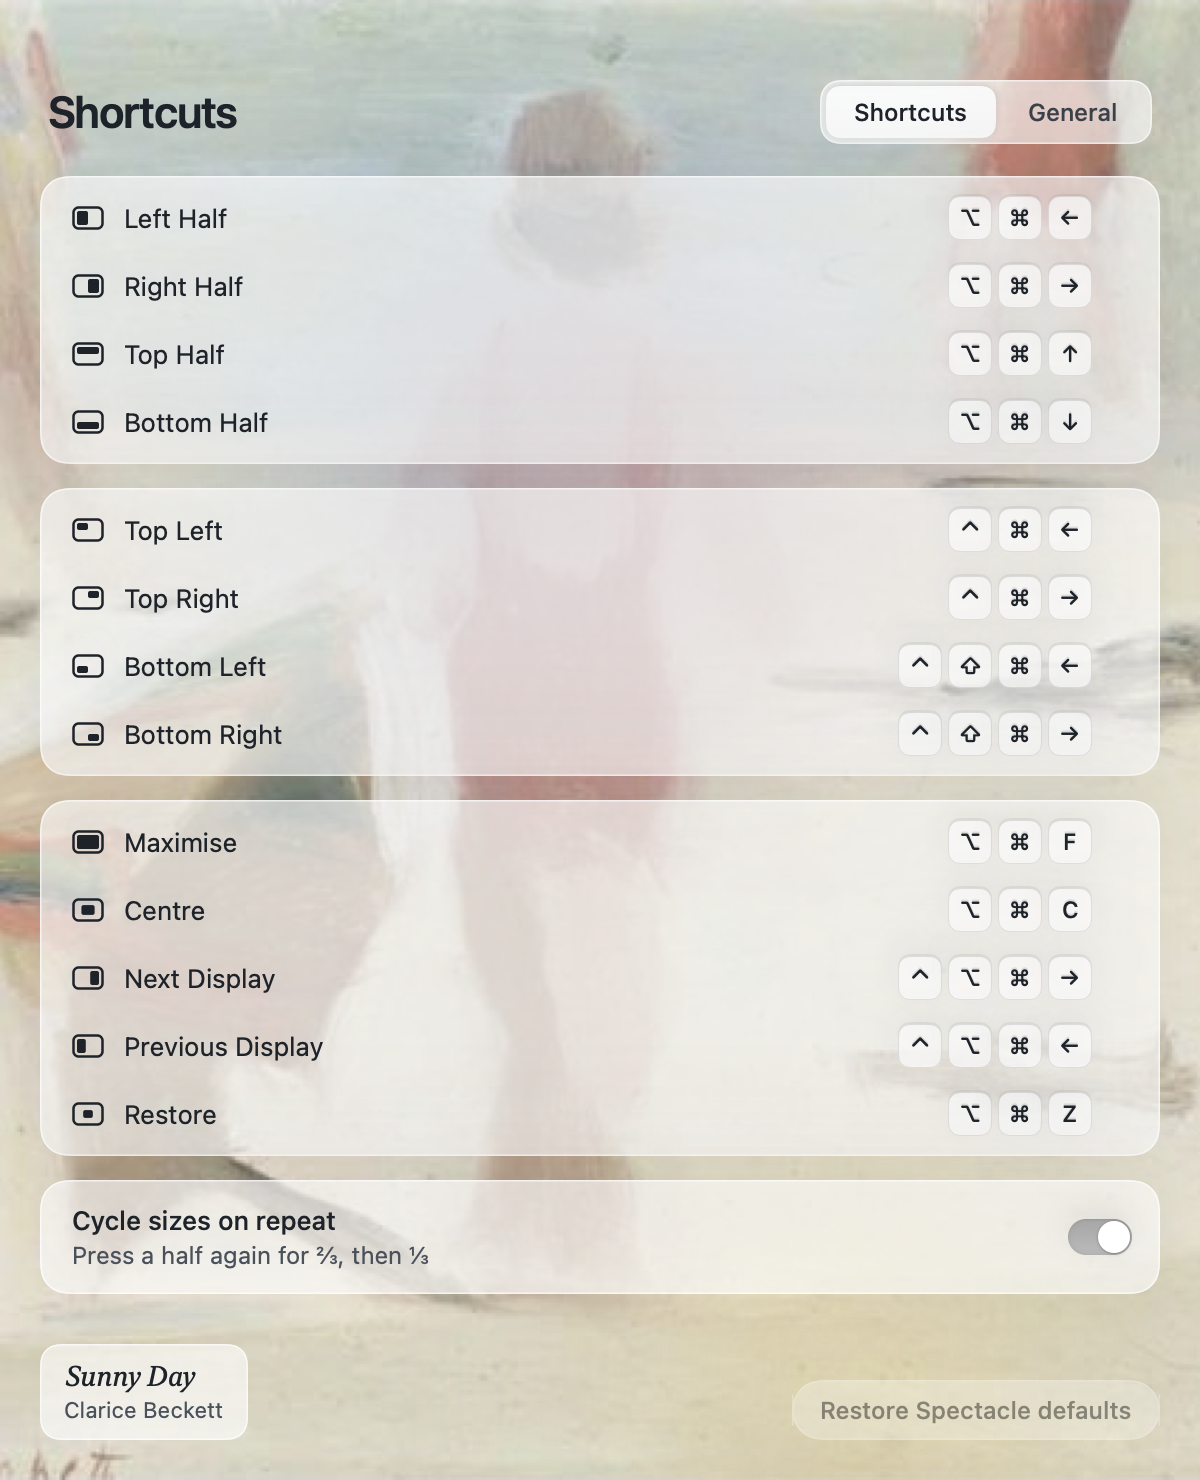
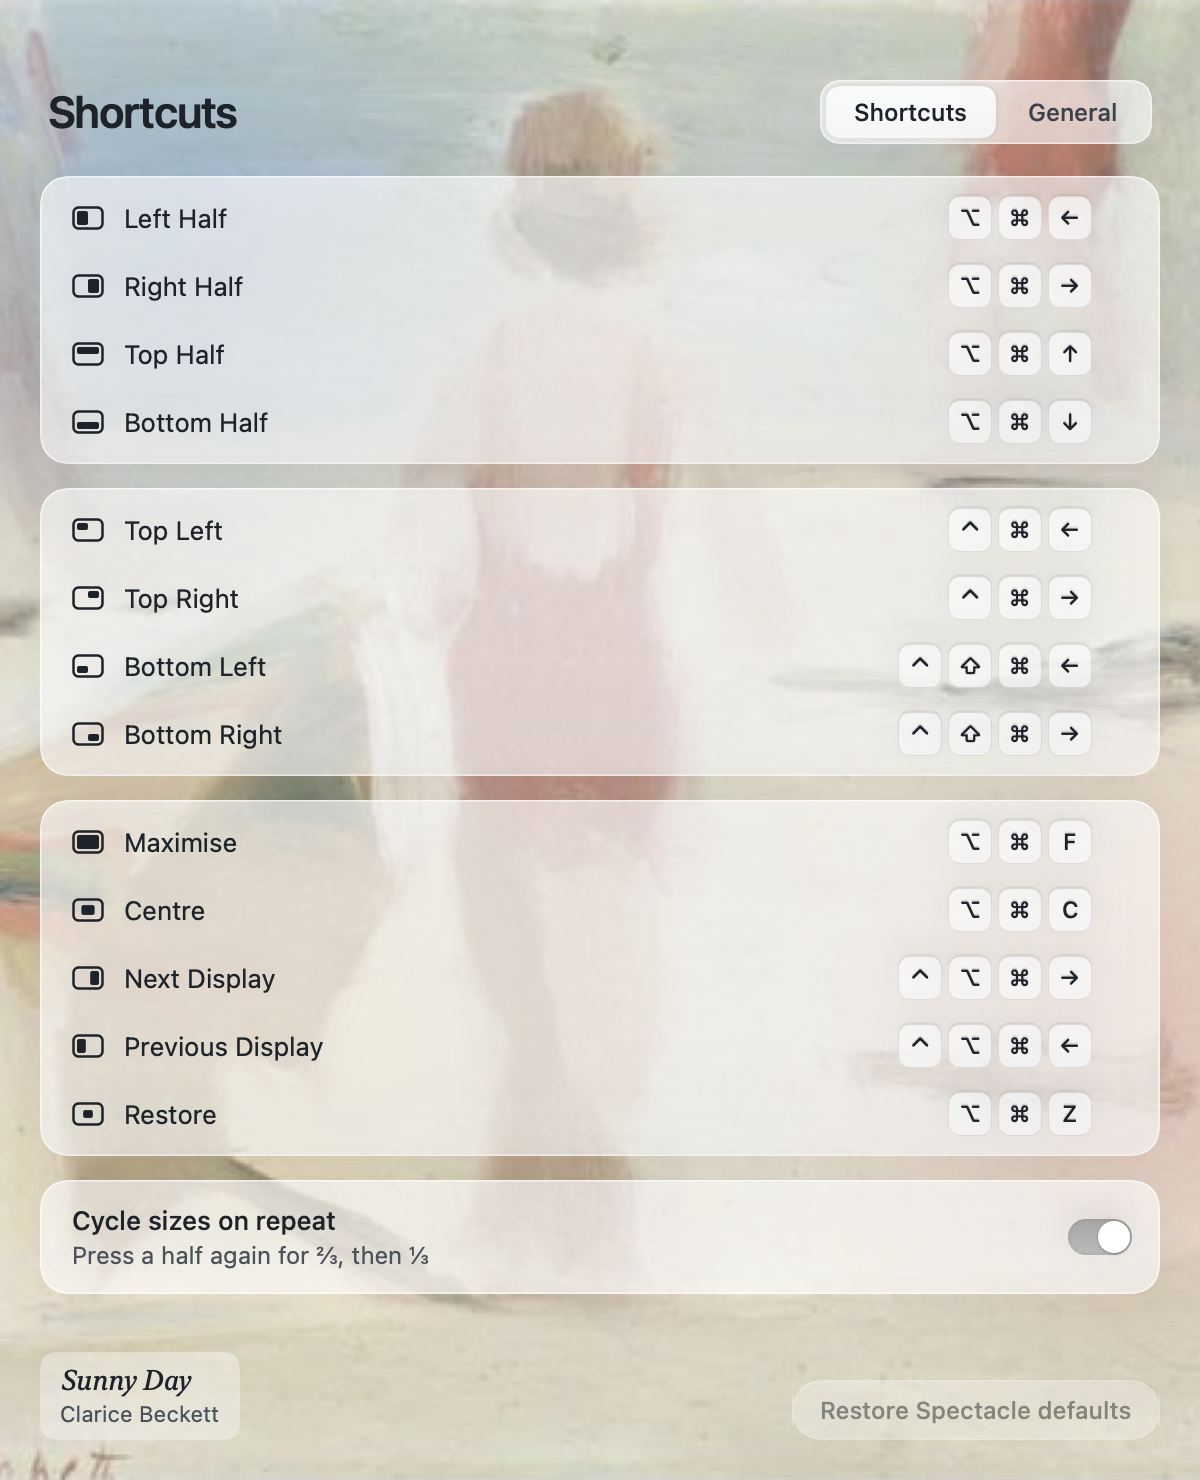
Wall label reads as a caption, not a control
Faint backing (white 0.22 light, slate 0.3 dark) with a light blur, no edge
or shadow, smaller padding. Library matches.

Changed region(s): [[0.0308, 0.9014, 0.2158, 0.9635], [0.0, 0.0622, 0.185, 0.1865], [0.555, 0.3108, 0.5858, 0.3419]]

diff --git a/library/pieces.css b/library/pieces.css
@@ -29,6 +29,7 @@
   --shadow-rgb: 29, 35, 43;
   --shadow-a: 1;
   /* Elevation. Light: white hairline, two soft ink shadows. */
+  --label-bg: rgba(255, 255, 255, 0.22);
   --glass-lift: inset 0 0 0 0.5px rgba(255, 255, 255, 0.65), 0 6px 16px rgba(29, 35, 43, 0.07), 0 24px 56px rgba(29, 35, 43, 0.08);
   /* The painting */
   --wash-rgb: 255, 255, 255;
@@ -68,6 +69,7 @@
   --knob-on: #ffffff;
   --switch-on: rgb(122, 138, 160);   /* slate, so the system's white knob shows */
   --glass-rgb: 14, 17, 22;
+  --label-bg: rgba(14, 17, 22, 0.3);
   --glass-extra: 0.36;       /* 0.32 + 0.36 = Theme.glass dark (0.68) */
   --glass-edge: rgba(255, 255, 255, 0.1);
   --key: rgba(255, 255, 255, 0.1);
@@ -164,7 +166,8 @@
 .sp-tile { background: var(--key-lg); border-radius: 12px; }
 
 /* ---------- Wall label ---------- */
-.sp-wall { display: inline-flex; flex-direction: column; gap: 1px; padding: 8px 12px; }
+/* A caption on the wall, not a control: faint backing, no edge, no shadow. */
+.sp-wall { display: inline-flex; flex-direction: column; gap: 1px; padding: 6px 10px; border-radius: 8px; background: var(--label-bg); -webkit-backdrop-filter: blur(12px); backdrop-filter: blur(12px); }
 .sp-wall i { font: italic 14px/16px var(--serif); }
 .sp-wall span { font-size: 11px; line-height: 14px; color: var(--ink-3); }
 

diff --git a/library/pieces.js b/library/pieces.js
@@ -41,7 +41,7 @@ export const appearanceSeg = (selected) => `<span class="sp-tabs">${['System', '
 export const tabs = (selected) => `<span class="sp-tabs">${['Shortcuts', 'General'].map((t) => `<span class="sp-tab ${t === selected ? 'on' : ''}">${t}</span>`).join('')}</span>`;
 export const pill = (label, disabled) => `<span class="sp-pill ${disabled ? 'disabled' : ''}">${label}</span>`;
 export const inkButton = (label, lg) => `<span class="sp-ink ${lg ? 'lg' : ''}">${label}</span>`;
-export const wallLabel = (title, artist = 'Clarice Beckett') => `<span class="sp-chip sp-wall"><i>${title}</i><span>${artist}</span></span>`;
+export const wallLabel = (title, artist = 'Clarice Beckett') => `<span class="sp-wall"><i>${title}</i><span>${artist}</span></span>`;
 export const blobs = () => '<div class="sp-blobs" aria-hidden="true"><span class="sp-blob a"></span><span class="sp-blob b"></span><span class="sp-blob c"></span></div>';
 export const painted = (inner, style = '', painting) =>
   `<div class="sp sp-ground" style="${painting ? `--painting:url(${PAINTINGS[painting][1]});` : ''}${style}">${blobs()}<div class="sp-content">${inner}</div></div>`;

diff --git a/library/index.html b/library/index.html
@@ -147,7 +147,7 @@
         'Accessibility needed': P.settingRow('Accessibility', 'Needed to move other apps’ windows', P.pill('Open Settings')),
       }[setting]}</div>`, '20px'),
       native: { file: SWIFT + 'SettingsWindow.swift', view: 'GeneralPane.row(_:detail:accessory:)' } },
-    { id: 'wall-label', group: 'Components', name: 'Wall label', desc: 'Credits the painting behind a surface. The only serif.', stage: 'none',
+    { id: 'wall-label', group: 'Components', name: 'Wall label', desc: 'Credits the painting behind a surface: a caption, not a control, so no edge or shadow. The only serif.', stage: 'none',
       props: { painting: Object.keys(P.PAINTINGS) }, render: ({ painting }) => P.painted(`<div style="padding:24px 28px">${P.wallLabel(P.PAINTINGS[painting][0])}</div>`, 'border-radius:14px', painting),
       code: () => 'WallLabel(title: "Sunny Day", artist: "Clarice Beckett")', native: { file: SWIFT + 'SettingsWindow.swift', view: 'WallLabel' } },
     { id: 'menu', group: 'Components', name: 'Menu bar menu', desc: 'The cheat sheet: every snap, its glyph and current shortcut. Drawn by macOS.', stage: 'light',

diff --git a/Sources/Snappl/SettingsWindow.swift b/Sources/Snappl/SettingsWindow.swift
@@ -411,9 +411,11 @@ private struct WallLabel: View {
             Text(title).font(.system(size: 14, design: .serif).italic())
             Text(artist).font(.system(size: 11)).foregroundStyle(Palette.muted)
         }
-        .padding(.horizontal, 12)
-        .padding(.vertical, 8)
-        .glass(radius: 10, floating: false)
+        .padding(.horizontal, 10)
+        .padding(.vertical, 6)
+        // A caption on the wall, not a control: faint backing, no edge, no shadow.
+        .background(RoundedRectangle(cornerRadius: 8, style: .continuous).fill(Theme.wallLabel))
+        .background(RoundedRectangle(cornerRadius: 8, style: .continuous).fill(.ultraThinMaterial).opacity(0.5))
         .accessibilityElement(children: .combine)
         .accessibilityLabel("Painting: \(title), by \(artist)")
     }

diff --git a/Sources/Snappl/Theme.swift b/Sources/Snappl/Theme.swift
@@ -32,6 +32,9 @@ enum Theme {
     static let keycap = dynamic(light: rgb(255, 255, 255, 0.72), dark: rgb(255, 255, 255, 0.1))
     static let field = dynamic(light: rgb(255, 255, 255, 0.9), dark: rgb(255, 255, 255, 0.08))
     static let tabSelected = dynamic(light: rgb(255, 255, 255, 0.92), dark: rgb(255, 255, 255, 0.16))
+    /// The wall label's backing: just enough to read the caption over the
+    /// painting. No edge or shadow, so it reads as a caption, not a control.
+    static let wallLabel = dynamic(light: rgb(255, 255, 255, 0.22), dark: rgb(14, 17, 22, 0.3))
     static let popupTint = dynamic(light: rgb(255, 255, 255, 0.28), dark: rgb(24, 28, 35, 0.45))
 
     // The painting
